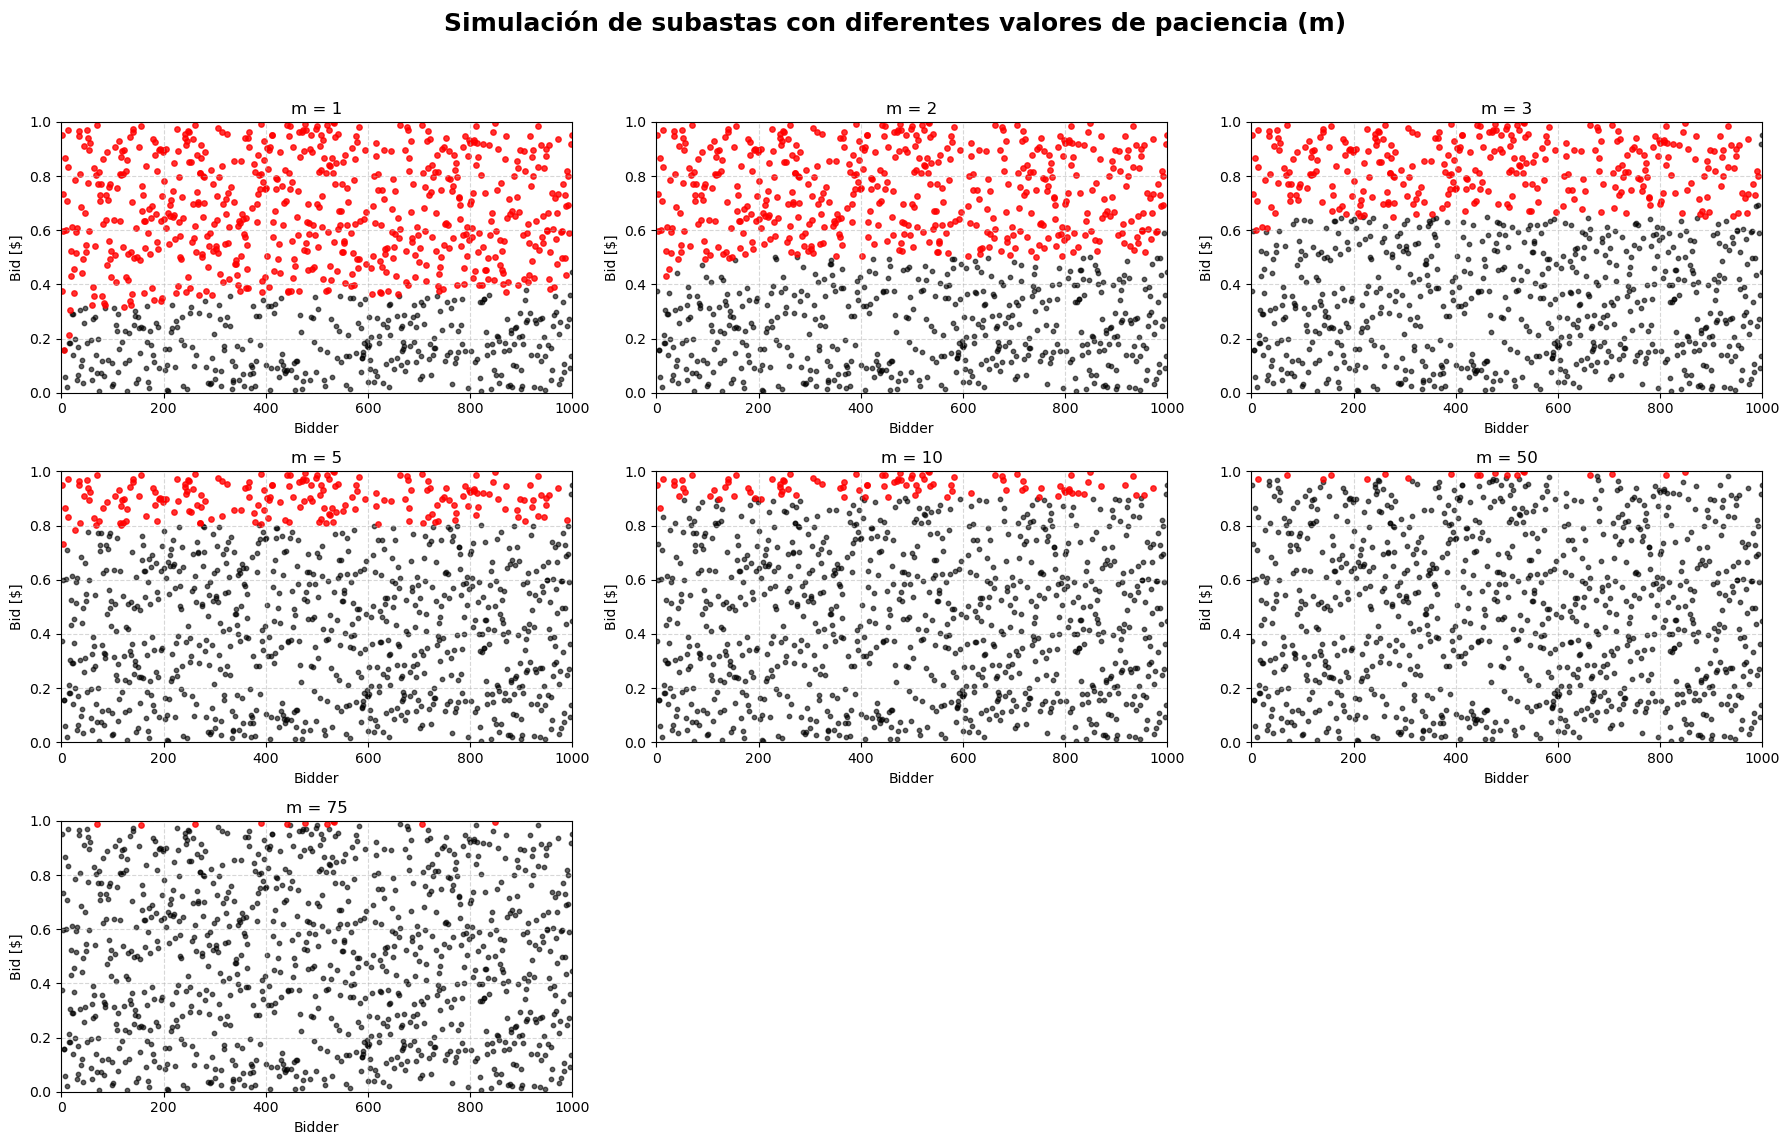
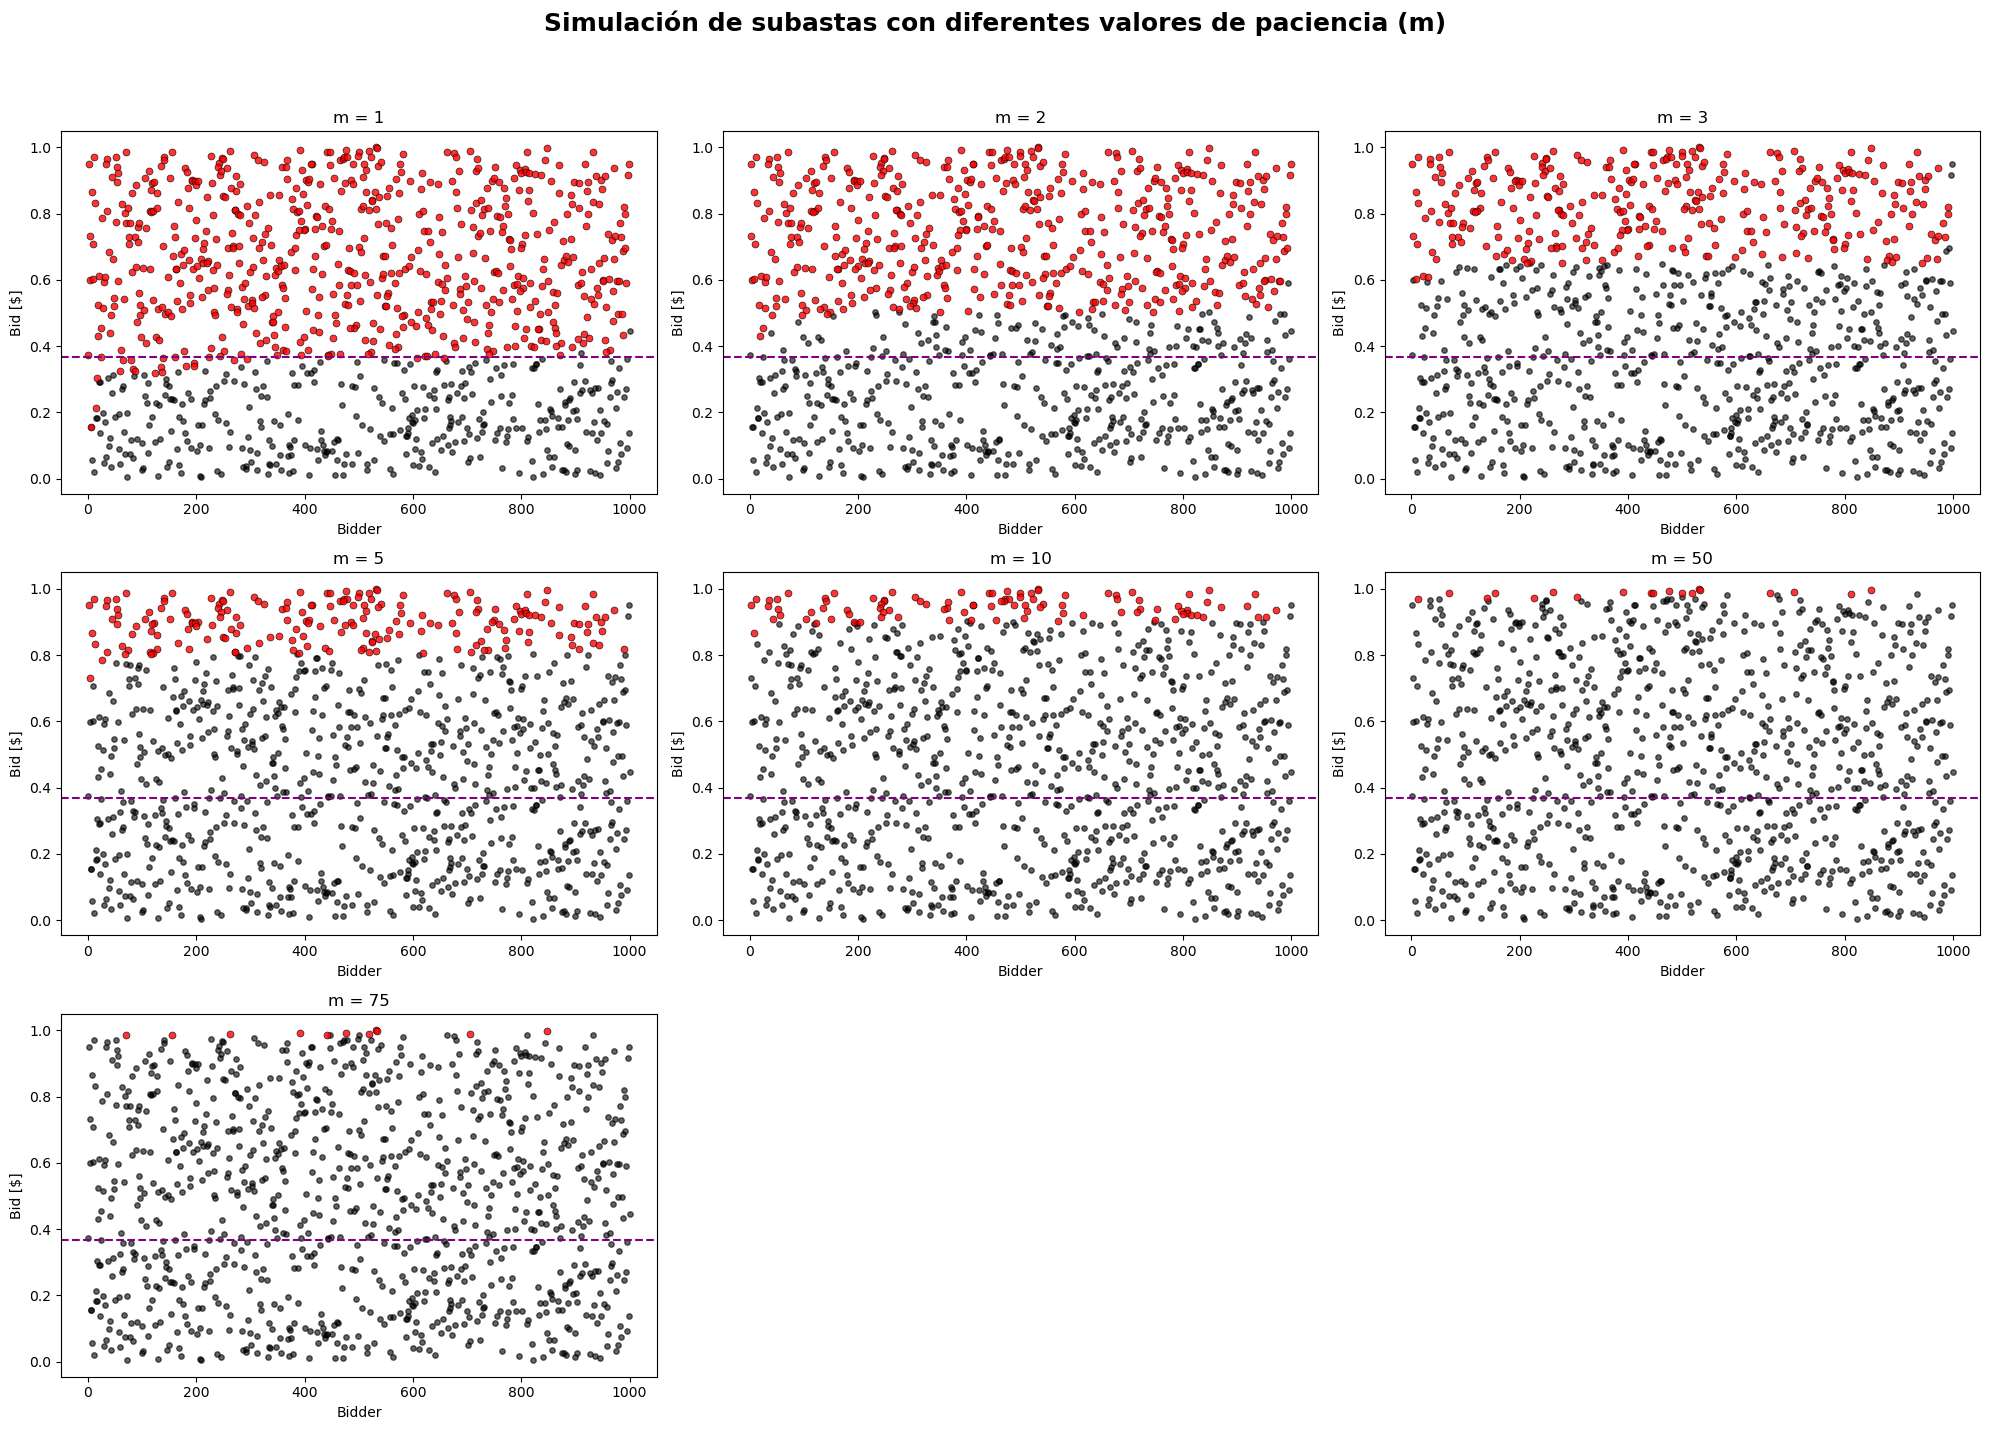
Updated README

Changed region(s): [[0.0, 0.0611, 1.0, 1.0], [0.2459, 0.0, 0.7686, 0.0306]]

diff --git a/README.md b/README.md
@@ -226,7 +226,7 @@ En esta modificación, el vendedor también puede tener impaciencia, vendiendo a
 
 #### 2.5.1 Algoritmo
 
-A continuación se detalla la implementación del alogritmo de subasta con impaciencia del vendedor.
+A continuación se detalla la implementación del algoritmo de subasta con impaciencia del vendedor.
 
 ```pseudocode
 INPUT: 
@@ -304,7 +304,90 @@ En particular, si $\tau = 1$, el vendedor no espera a que aparezca una oferta su
 
 ### 2.6 Precio de reserva dinámico
 
-Se introduce un precio de reserva que puede decaer con el tiempo o actualizarse en función de las ventas previas. Esta variante añade una capa adicional de realismo y complejidad al modelo, permitiendo simular escenarios en los que el vendedor ajusta sus expectativas de precio en función del contexto o de la historia de la subasta.
+Se introduce un precio de reserva que se va actualizando en función de las ventas realizadas. Cuanto más tiempo tiene que esperar el vendedor para aceptar una oferta, el precio de reserva decrese y, por lo tanto, más probabilidades tenemos de aceptar la oferta candidata. De esta manera podemos modelar de forma dinámica la impaciencia del vendedor.
+
+Esta variante añade una capa adicional de realismo y complejidad al modelo, permitiendo simular escenarios en los que la impaciencia del vendedor se ajusta en función del contexto o de la historia de la subasta.
+
+#### 2.6.1 Algoritmo
+
+```pseudocode
+INPUT: 
+    bids[] - lista con las ofertas generadas
+    decay_rate - factor de decaimiento de la impaciencia
+    N - cantidad de ofertas
+
+VARIABLES:
+    pending_bids[] - lista con las ofertas pendientes
+    accepted_bids[] - lista con las ofertas aceptadas
+    accepted_indices[] - lista con los índices de las ofertas aceptadas
+    highest_pending_bid - oferta máxima dentro de las pendientes
+    impatience_threshold - umbral de impaciencia del vendedor (precio de reserva)
+    last_sale - índice (momento) de la última venta
+    first_sale - indica si es la primer venta
+    current_index - índice (momento) actual
+    sell - indica si se acepta la oferta o no
+    
+BEGIN
+    INITIALIZE pending_bids[] as empty array
+    INITIALIZE accepted_bids[] as empty array
+    INITIALIZE accepted_indices[] as empty array
+    SET last_sale ← NULL
+    SET first_sale ← TRUE
+    
+    FOR current_index FROM 1 TO N DO
+        current_bid ← bids[current_index]
+        
+        // If no pending bids, add current bid and continue
+        IF pending_bids[] is empty THEN
+            ADD current_bid TO pending_bids[]
+            CONTINUE
+        END IF
+        
+        SET highest_pending_bid ← max(pending_bids[])
+        SET impatience_threshold ← calculate_decreasing_threshold()
+        
+        // SELLING LOGIC (logical OR)
+        SET sell ← FALSE
+        
+        // Rule 1: Original structure
+        IF current_bid < highest_pending_bid THEN
+            SET sell ← TRUE
+        END IF
+        
+        // Rule 2: Seller impatience  
+        IF NOT sell AND highest_pending_bid >= impatience_threshold THEN
+            SET sell ← TRUE
+        END IF
+        
+        IF sell THEN
+            // SALE: always the highest pending bid
+            ADD highest_pending_bid TO accepted_bids[]
+            ADD index_of(highest_pending_bid) TO accepted_indices[]
+            REMOVE highest_pending_bid FROM pending_bids[]
+            ADD current_bid TO pending_bids[]
+            SET last_sale ← current_index
+        ELSE
+            // Do not sell
+            ADD current_bid TO pending_bids[]
+        END IF
+    END FOR
+    
+    RETURN accepted_bids[], accepted_indices[]
+END
+```
+
+#### 2.6.2 Resultados
+
+En la Figura 6 podemos ver como se ajusta el precio de reserva (umbral de impaciencia) del vendedor a medida que tiene que esperar más para vender la siguiente unidad.
+
+Como podemos ver en el gráfico de dispersión, incorporar el precio de reserva logra que el vendedor termine vendiendo unidades por debajo del precio crítico.
+
+<figure>
+    <img src="attachments/precio-reserva.png"
+         alt="Modificación 6: impaciencia del vendedor"/>
+    <figcaption><b>Figura 6.</b> Resultados de las subastas con precio de reserva del vendedor. La línea punteada representa el precio crítico encontrado en Fraiman, D. (2022).</figcaption>
+</figure>
+
 
 ## 3. Conclusión y resultados
 
